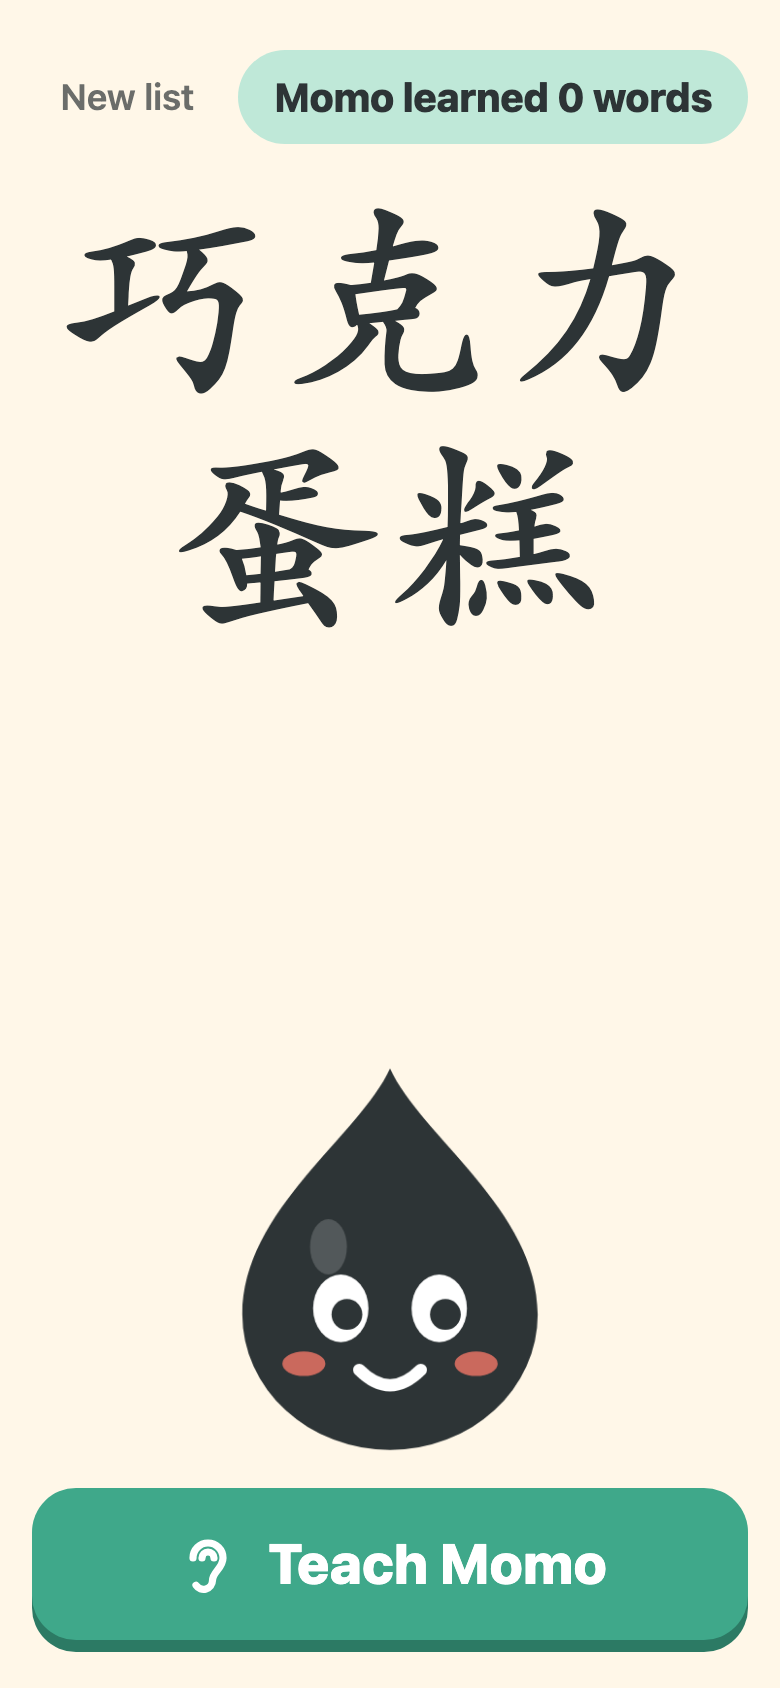
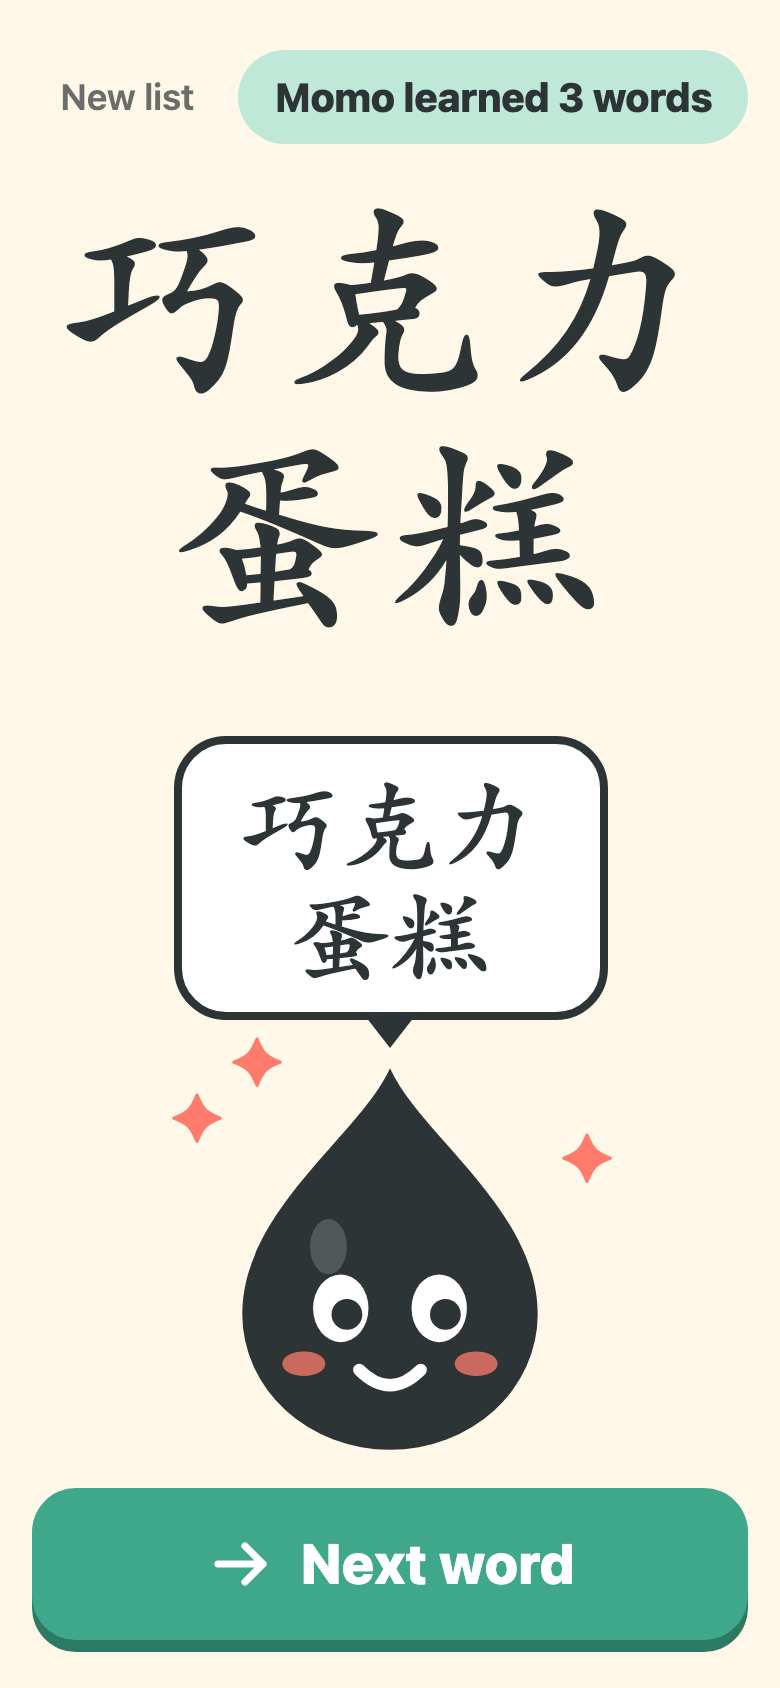
spike(momo-fun): check.py covers screen height, all-blank karaoke, 1in margin, stale print, bubble-vs-character overlap; new receipt and changed shots

diff --git a/spikes/2026-09-28-momo-fun/check.py b/spikes/2026-09-28-momo-fun/check.py
@@ -46,6 +46,7 @@ PARSER_CASES = [
     ("葡萄\n葡萄 pútao", [["葡萄", "pútao"]]),
     ("草莓, 橙子", [["草莓", ""], ["橙子", ""]]),
     ("苹果 香蕉 píngguǒ xiāngjiāo", [["苹果", "píngguǒ"], ["香蕉", "xiāngjiāo"]]),
+    ("píngguǒ 苹果 xiāngjiāo 香蕉", [["苹果", "píngguǒ"], ["香蕉", "xiāngjiāo"]]),
     ("hello world", []),
     ("<img src=x onerror=alert(1)> 苹果 </button><script>x</script>", [["苹果", ""]]),
 ]
@@ -61,6 +62,22 @@ def small_targets(pg, where):
         .map(b=>(b.textContent.trim()||b.tagName)+' '+Math.round(b.getBoundingClientRect().width)+'x'+Math.round(b.getBoundingClientRect().height))""")
     check("tap targets >= 64 px: " + where, not bad, "; ".join(bad))
     return not bad
+
+# Everything a teacher needs stays on one screen: button visible, word inside, bubble not over the word, even lines.
+TEACH_LAYOUT = """()=>{const out=[],H=innerHeight,W=innerWidth,$=id=>document.getElementById(id);
+  function glyphs(el){const t=el.firstChild;if(!t)return[];const res=[];for(let i=0;i<t.length;i++){const r=document.createRange();
+    r.setStart(t,i);r.setEnd(t,i+1);const b=r.getBoundingClientRect();if(b.width)res.push(b)}return res}
+  function uneven(el){const rows={};glyphs(el).forEach(g=>{const k=Math.round(g.top/4);rows[k]=(rows[k]||0)+1});
+    const n=Object.values(rows);return n.length>1&&Math.max(...n)-Math.min(...n)>1?n.join('/'):''}
+  const act=$('act').getBoundingClientRect();if(act.bottom>H+1)out.push('button off screen by '+Math.round(act.bottom-H)+'px');
+  const g=glyphs($('word'));const wb=Math.max(...g.map(x=>x.bottom));
+  if(Math.min(...g.map(x=>x.left))<0||Math.max(...g.map(x=>x.right))>W||Math.min(...g.map(x=>x.top))<0)out.push('word off screen');
+  if(uneven($('word')))out.push('uneven word lines '+uneven($('word')));
+  const b=$('bubble');if(!b.hidden){const br=b.getBoundingClientRect();if(br.top<wb-1)out.push('bubble covers word by '+Math.round(wb-br.top)+'px');
+    const z=b.querySelector('.zh');if(z&&uneven(z))out.push('uneven bubble lines '+uneven(z))}
+  const m=$('momo').getBoundingClientRect();if(m.bottom>act.top+1)out.push('Momo under the button');
+  if(document.documentElement.scrollHeight>H+1)out.push('page scrolls '+(document.documentElement.scrollHeight-H)+'px');
+  return out.map(s=>$('word').textContent+' ['+$('momo').dataset.mood+']: '+s)}"""
 
 def no_hscroll(pg): return pg.evaluate("document.documentElement.scrollWidth <= document.documentElement.clientWidth")
 def inside_view(pg, sel): return pg.evaluate(f"(()=>{{const r=document.querySelector('{sel}').getBoundingClientRect();return r.left>=-1&&r.right<=innerWidth+1}})()")
@@ -105,10 +122,23 @@ with sync_playwright() as p:
             q.click("#new-list") if q.is_visible("#new-list") else None
             q.fill("#paste", w); q.click("#start")
             check(f"teach {vp_name}: '{w}' fits, no sideways scroll", no_hscroll(q) and inside_view(q, "#word"))
-            if w == "巧克力蛋糕" and vp_name == "phone": q.screenshot(path=str(SHOTS / "teach-long-word.png"))
         q.fill("#paste", "") if q.is_visible("#paste") else None
         q.click("#new-list"); q.fill("#paste", "水"); q.click("#start"); q.click("#act"); q.click("#act"); q.click("#act"); q.click("#act")
         check(f"teach {vp_name}: one-word grammar", q.inner_text("#done-title") == "Momo learned the word!", q.inner_text("#done-title"))
+        q.context.close()
+
+    # Teach Momo on landscape screens and a phone: 4, 5 and 9 character words through every step
+    for vw, vh in [(1280, 720), (1366, 768), (1280, 800), (390, 844)]:
+        q = page({"width": vw, "height": vh}); q.goto(url("teach-momo.html"))
+        q.fill("#paste", "1. 苹果\n2. 一石二鸟\n3. 巧克力蛋糕\n4. 我今天很高兴见到你"); q.click("#start"); probs = []
+        for _ in range(16):
+            q.wait_for_timeout(400); probs += q.evaluate(TEACH_LAYOUT)
+            if vw == 390 and q.inner_text("#word") == "巧克力蛋糕" and q.get_attribute("#momo", "data-mood") == "gotit":
+                q.wait_for_timeout(1200); q.screenshot(path=str(SHOTS / "teach-long-word.png"))
+            if (vw, vh) == (1280, 720) and q.inner_text("#word") == "我今天很高兴见到你" and q.get_attribute("#momo", "data-mood") == "gotit":
+                q.wait_for_timeout(1200); q.screenshot(path=str(SHOTS / "teach-landscape-1280x720.png"))
+            q.click("#act")
+        check(f"teach {vw}x{vh}: button, word and bubble all fit on screen, even lines (4, 5, 9 characters, every step)", not probs, "; ".join(probs[:4]))
         q.context.close()
 
     # 4. Karaoke
@@ -138,6 +168,23 @@ with sync_playwright() as p:
     pg.wait_for_timeout(2500); check("karaoke: Stop halts the song", pg.evaluate("idx") == t0)
     pg.fill("#paste", "苹果\n香蕉"); pg.click("#go")
     check("karaoke: too-short list gets a plain message", "at least 3" in pg.inner_text("#paste-note"))
+    pg.fill("#paste", FRUIT); pg.click("#go"); pg.evaluate("()=>{words.forEach((_,i)=>blanks[i]=true);renderChips()}"); pg.click("#go")
+    for _ in range(6):
+        pg.wait_for_selector("#stage.is-gap", timeout=8000); pg.click("#reveal"); pg.wait_for_timeout(100)
+    pg.wait_for_selector("#s-done.on", timeout=8000)
+    check("karaoke: every word a blank plays through", pg.inner_text("#done-sub") == "6 words, 6 shouted by the class.", pg.inner_text("#done-sub"))
+    KAR_FIT = """()=>{const H=innerHeight,out=[];const k=document.getElementById('kword');const st=document.getElementById('stage');
+      if(!st.classList.contains('is-gap')){const r=k.getBoundingClientRect();if(r.top<0||r.bottom>H)out.push('word off screen')}
+      const m=document.querySelector('.momo-row').getBoundingClientRect();if(m.bottom>H+1)out.push('Momo off screen by '+Math.round(m.bottom-H));
+      const b=document.getElementById('reveal').getBoundingClientRect();if(b.bottom>H+1)out.push('button off screen by '+Math.round(b.bottom-H));
+      if(document.documentElement.scrollHeight>H+1)out.push('page scrolls');return out}"""
+    for vw, vh in [(1280, 720), (390, 844)]:
+        q = page({"width": vw, "height": vh}); q.goto(url("karaoke-blanks.html"))
+        q.fill("#paste", "我今天很高兴见到你\n巧克力蛋糕\n你好"); q.click("#go"); q.evaluate("()=>{blanks={1:true}}"); q.click("#go")
+        q.wait_for_timeout(500); probs = q.evaluate(KAR_FIT)
+        q.wait_for_selector("#stage.is-gap", timeout=8000); q.wait_for_timeout(300); probs += q.evaluate(KAR_FIT)
+        check(f"karaoke {vw}x{vh}: 9-character word, Momo and the button stay on screen", not probs, "; ".join(probs))
+        q.context.close()
     for vp_name, vp in [("phone", PHONE), ("laptop", LAPTOP)]:
         q = page(vp); q.goto(url("karaoke-blanks.html")); q.fill("#paste", LONG); q.click("#go")
         q.evaluate("()=>{blanks={}}")   # no blanks, so the long word is sung
@@ -147,24 +194,24 @@ with sync_playwright() as p:
         q.context.close()
 
     # 5. Comic
-    for vp_name, vp in [("phone", PHONE), ("laptop", LAPTOP)]:
+    for vp_name, vp, words_in in [("phone", PHONE, LONG), ("laptop", LAPTOP, LONG),
+                                  ("small phone 320", {"width": 320, "height": 568}, "我今天很高兴见到你们大家\n一石二鸟\n生日快乐歌\n你好\n谢谢你")]:
         q = page(vp); q.goto(url("comic-bubbles.html")); small_targets(q, f"comic {vp_name} paste screen")
-        q.fill("#paste", LONG); q.click("#start")
+        q.fill("#paste", words_in); q.click("#start")
         for _ in range(3):
             q.click("#shuffle"); q.wait_for_timeout(450)
             ov = q.evaluate("""()=>{const bad=[];document.querySelectorAll('.panel').forEach((p,pi)=>{const pr=p.getBoundingClientRect();
               const items=[...p.querySelectorAll('.bubble,.char')].map(e=>({e,r:e.getBoundingClientRect()}));
               items.forEach(a=>{if(a.r.left<pr.left-1||a.r.right>pr.right+1)bad.push('panel'+(pi+1)+' outside: '+a.e.textContent)});
               for(let i=0;i<items.length;i++)for(let j=i+1;j<items.length;j++){const a=items[i],b=items[j];
-                const same=a.e.classList.contains('bubble')===b.e.classList.contains('bubble');
                 const x=Math.min(a.r.right,b.r.right)-Math.max(a.r.left,b.r.left),y=Math.min(a.r.bottom,b.r.bottom)-Math.max(a.r.top,b.r.top);
-                if(same&&x>0&&y>0)bad.push('panel'+(pi+1)+' overlap '+Math.round(x)+'px: '+a.e.textContent+' / '+b.e.textContent)}});return bad}""")
+                if(x>0&&y>0)bad.push('panel'+(pi+1)+' overlap '+Math.round(x)+'px: '+a.e.textContent+' / '+b.e.textContent)}});return bad}""")
             if ov: break
-        check(f"comic {vp_name}: 3-5 character words, no bubble or character overlaps (3 shuffles)", not ov, "; ".join(ov))
+        check(f"comic {vp_name}: long words, nothing overlaps (bubbles and characters, any pair, 3 shuffles)", not ov, "; ".join(ov))
         check(f"comic {vp_name}: no sideways scroll", no_hscroll(q))
         small_targets(q, f"comic {vp_name} comic screen")
         if vp_name == "laptop": q.screenshot(path=str(SHOTS / "comic-laptop.png"), full_page=True)
-        else: q.screenshot(path=str(SHOTS / "comic-long-words.png"), full_page=True)
+        elif vp_name == "phone": q.screenshot(path=str(SHOTS / "comic-long-words.png"), full_page=True)
         q.context.close()
     pg.goto(url("comic-bubbles.html"))
     pg.emulate_media(media="print")
@@ -192,6 +239,10 @@ with sync_playwright() as p:
     after = pg.eval_on_selector_all(".bubble", "e=>e.map(x=>x.textContent)")
     check("comic: after Shuffle a word tap changes the highlighted bubble only", after[0] == "香蕉" and after[1:] == before[1:], f"{before} -> {after}")
     check("comic: Shuffle and Print have icons", pg.locator("#shuffle svg.ic").count() == 1 and pg.locator("#print svg.ic").count() == 1)
+    pg.evaluate("()=>{CONFIG.printMargin='1in';setPaper('letter')}"); pg.emulate_media(media="print")
+    pg.pdf(path=str(TMP / "comic-1in.pdf"), prefer_css_page_size=True, print_background=True); pg.emulate_media(media="screen")
+    check("comic: a 1 inch print margin still prints 1 Letter page", pages(TMP / "comic-1in.pdf") == 1, f"{pages(TMP / 'comic-1in.pdf')} pages")
+    pg.evaluate("()=>{CONFIG.printMargin='0.5in'}")
     for size, name in [("letter", "letter"), ("A4", "a4")]:
         pg.click(f"[data-size={size}]"); pg.emulate_media(media="print")
         pdf = TMP / f"comic-{name}.pdf"; pg.pdf(path=str(pdf), prefer_css_page_size=True, print_background=True)
@@ -199,6 +250,9 @@ with sync_playwright() as p:
         n = pages(pdf); check(f"comic: print on {size} is 1 page", n == 1, f"{n} pages")
         if shutil.which("pdftoppm"):
             subprocess.run(["pdftoppm", "-png", "-r", "80", "-singlefile", str(pdf), str(SHOTS / f"comic-print-{name}")], check=True)
+    pg.click("#new-list"); pg.emulate_media(media="print")
+    check("comic: after New list, printing shows 'Make the comic first' (no stale comic)", pg.is_visible(".print-empty") and not pg.is_visible("main"))
+    pg.emulate_media(media="screen")
     br.close()
 
 check("no page or console errors", not errors, "; ".join(errors[:5]))
